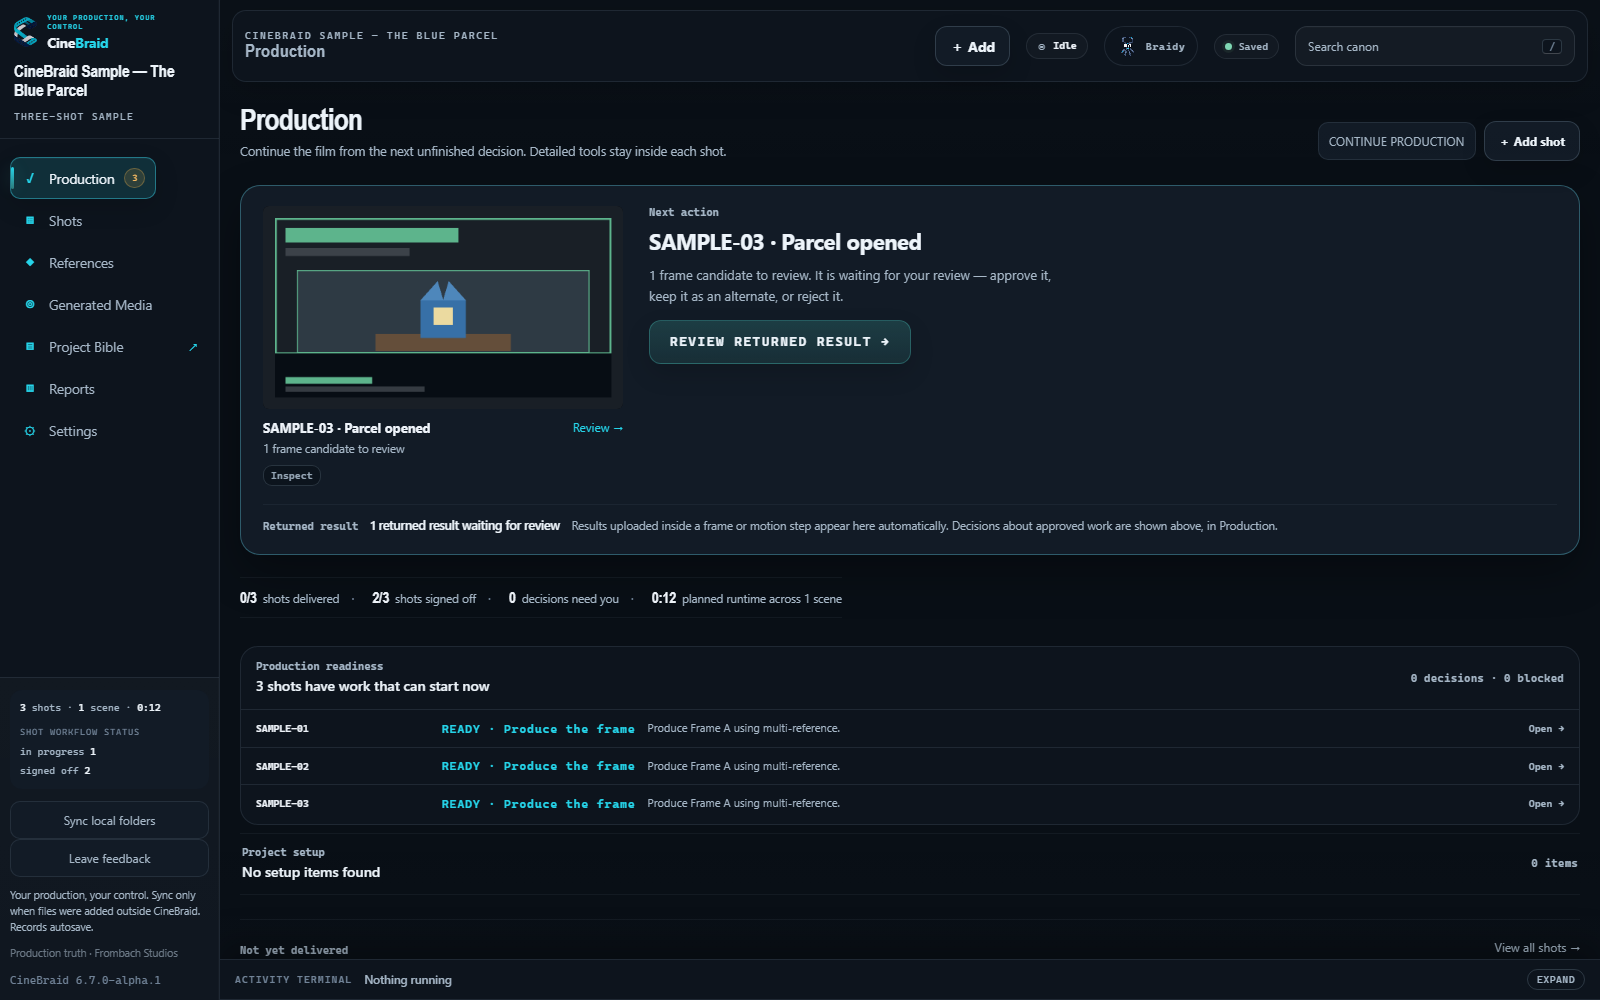
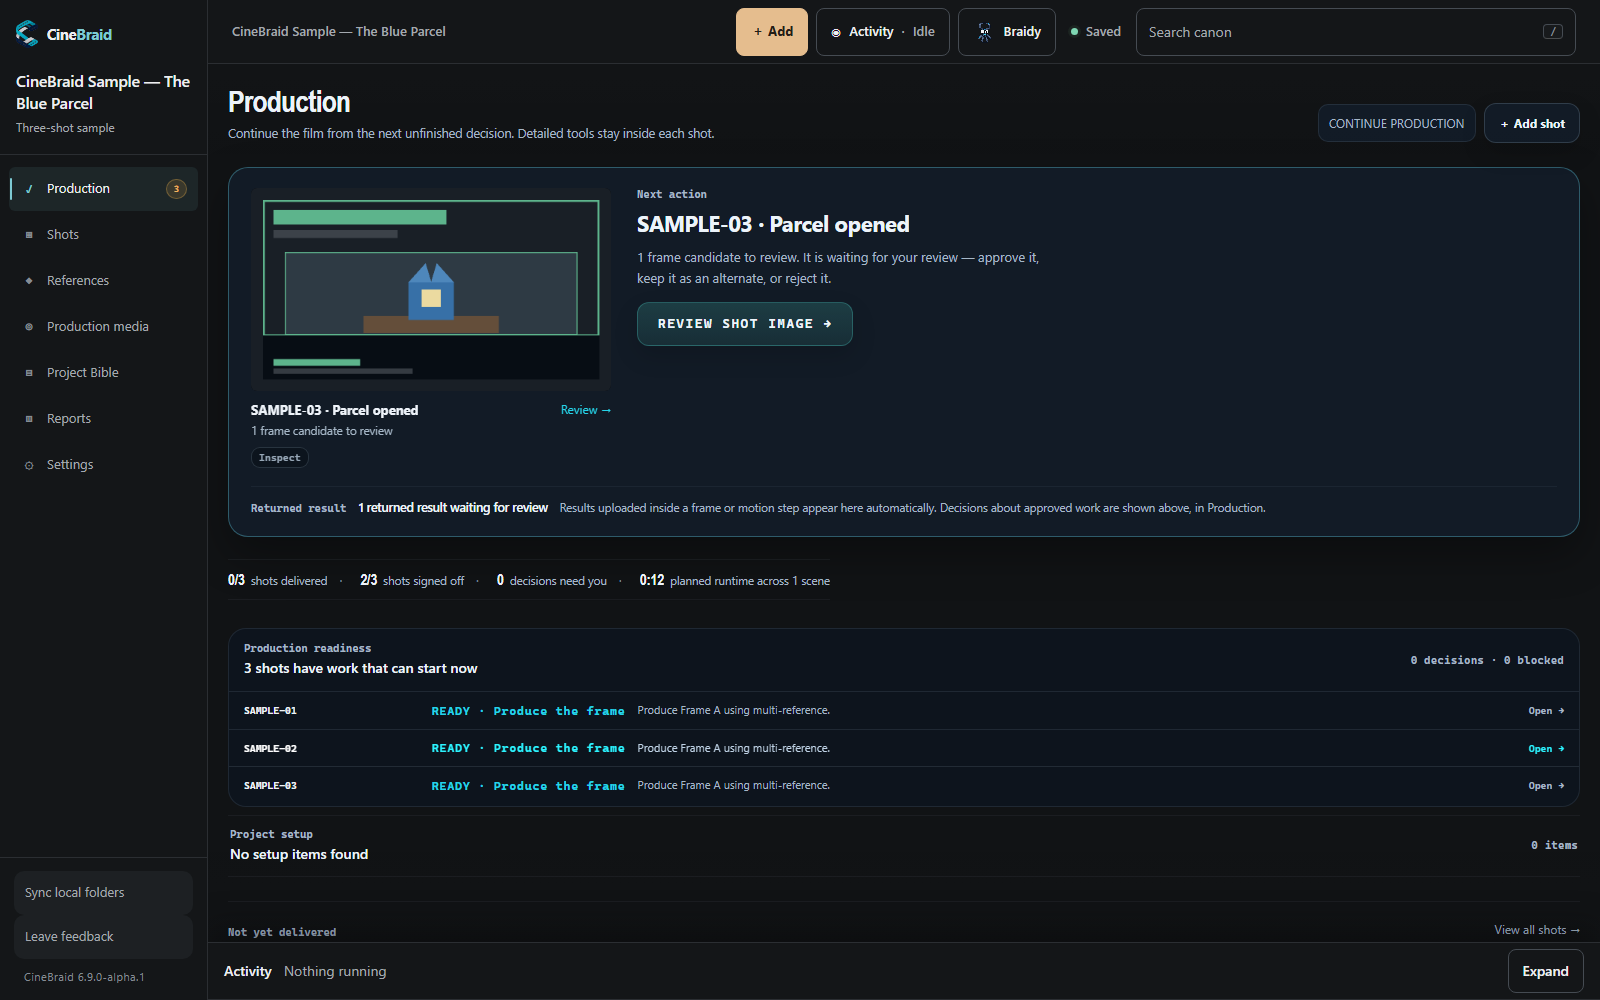
Refresh the README screenshots and social preview for 6.9
The three README screenshots and the social preview showed the 6.7.0-alpha.1
interface. They are replaced with captures of the running 6.9.0-alpha.1 build
at bddf738, taken from a disposable copy of the public sample in one project
state: four real reference approvals through the application's own dialog,
each saved, then navigation only. V1 showed the reference approval dialog
before confirmation, an earlier state than the other two images; V2 shows
the approved reference, so all three agree. The Production view's real
discrepancy - a returned result awaiting review beside "0 decisions need
you" - is kept and documented, as V1's record required.

All four PNGs decode to exactly the captured or rendered pixels, carry only
an sRGB rendering-intent chunk, and are under 116 KB. The social preview
keeps the recorded V1 layout: the native 80x103 ribbon, the full production
capture at 864x540, and the same three lines of text. The shot and reference
alt text, and the reference caption, now describe what their images show.
.github/assets/README.md records the V2 provenance as product-owner approved;
GitHub keeps serving V1 until the owner uploads V2 in the settings.

The v6.8.0-alpha.1 release notes, source update guide and release-folder
README still said no 6.8 tag or GitHub release had been published. It was
published on 2026-09-15 as a source-only pre-release tagged at d5342b9, with
no uploaded archive or installer, and the three documents now say so. The
[…]

diff --git a/.github/assets/README.md b/.github/assets/README.md
@@ -2,82 +2,83 @@
 
 This directory holds durable guidance for public repository presentation. Runtime
 artwork stays in `public/`. Three product screenshots are approved for README publication as recorded below.
-Project Bible is held. The social preview below is active in the repository settings.
+Project Bible is held. The V2 captures and social preview below were approved by the
+product owner on 2026-09-23 and replace the V1 set. GitHub keeps serving the V1
+social preview until the owner uploads V2 in the repository settings.
 
-## GitHub Social Preview V1 — approved
+## GitHub Social Preview V2 — approved
 
-`social-preview.png` is product-owner approved as-is for repository publication. The owner activated it in the repository settings; on 2026-09-22 the image GitHub served was byte-identical to this file (SHA-256 below). Prepared from post-Alpha main `5e8d998f9ebf94f73bba5e59472306eda87b9e54`. Project Bible remains held.
+`social-preview.png` is product-owner approved (2026-09-23). It is rebuilt from the V2
+production capture below, on the recorded V1 layout. Prepared from public main `bddf73834e8ed1df83493db380a5f6eafe6e3860` (6.9.0-alpha.1). GitHub setting
+activation is a manual upload by the owner after approval; V1 (SHA-256
[1 lines of base64/hex data omitted]
+`5e8d998f9ebf94f73bba5e59472306eda87b9e54`) stays active until then.
 
-- Dimensions: **1280 × 640** RGB PNG, sRGB rendering intent declared. Descriptive metadata stripped; the sRGB colour declaration is the only ancillary metadata. Lossless PNG optimization; 112,657 bytes.
[3 lines of base64/hex data omitted]
-- Screenshot treatment: the entire 1600 × 1000 capture displayed proportionally at **864 × 540**. No crop, UI retouching, compositing of UI states, or added browser chrome. One genuine screenshot only.
-- Layout: restrained navy `#09121b`, cyan `#28d1df`, light text. Minimum 48 px outer safe margin; screenshot at (368, 50), ribbon at (48, 50). All content remains inside safe margins.
-- Text: **CineBraid** / **Local-first production software for filmmaking.** / **Public Alpha · Source-only**.
-- Visual review: inspected at 1280 × 640 and 640 × 320. Name and positioning remain readable; the production heading, image and next-action card establish real application context. Fine UI text is not expected to be readable at half size.
-- Public safety and rights: uses only the two approved assets with verified hashes. No private production, credentials, personal paths, QA overlays, generated art or outside imagery introduced. Native branding remains covered by Frombach Studios brand terms; public-sample provenance and Apache-2.0 asset terms are recorded below.
-- Lossless composition original and HTML layout remain outside Git in the isolated review-artifact directory. No GitHub settings changed. Human visual approval is complete; no GitHub setting activation is performed by this publication.
-- Repository-only asset: `.github/` remains export-ignored. The exact `.github/assets/social-preview.png` path is recognized only by the repository-presentation allowance, never by runtime SHIPPED_MEDIA. No product/runtime code changes.
+- Dimensions: **1280 × 640** RGB PNG, sRGB rendering intent declared. Descriptive metadata stripped; the sRGB colour declaration is the only ancillary chunk. Lossless PNG encoding; 101,923 bytes.
[3 lines of base64/hex data omitted]
+- Layout: navy `#09121b`, cyan `#28d1df`, light text, 48 px outer safe margin. Text: **CineBraid** / **Local-first production software for filmmaking.** / **Public Alpha · Source-only**.
+- Rendered by headless Chromium from an HTML layout at 1280 × 640, device scale 1; the layout and unencoded render remain outside Git.
 
-## Accepted README captures — Public Media Capture V1
+## Accepted README captures — Public Media Capture V2
 
-Product-owner visual review approved the following three genuine captures for README publication. Originals remain outside Git, on the maintainer's machine. Source application SHA for every image: `022fe324c725a40b8cd89a6e0283cfd99527e7f6`. Disposable public demo: `cinebraid-sample-public-media-v1`, displayed as **CineBraid Sample — The Blue Parcel**, derived only from tracked `projects/cinebraid-sample`.
+Product-owner visual review (2026-09-23) approved these three genuine captures of the
+running 6.9.0-alpha.1 build at public main `bddf73834e8ed1df83493db380a5f6eafe6e3860`, all
+in **one project state**. Disposable public demo `cinebraid-sample-public-media-v1`,
+displayed as **CineBraid Sample — The Blue Parcel**, copied from the tracked
+`projects/cinebraid-sample` into an isolated projects root with isolated settings,
+loopback only, no provider credentials, and a fresh browser profile. The tracked
+sample remained byte-identical.
 
-All captures are 1600 × 1000 CSS/pixel viewports, DPR 1, zoom 100%, dark theme. No crop, scaling, retouching, compositing or UI-state alteration. Repository PNGs preserve decoded RGB pixels exactly; lossless PNG optimization strips descriptive metadata and retains only an sRGB rendering-intent declaration. All are below 1 MB.
+The state: four real reference approvals, each made through the application's own
+approval dialog once it reported the image ready, and each waited on until saved —
+The courier · Travel coat, Rain platform · Rainy afternoon, Blue parcel · Closed and
+Blue parcel · Opened. After that, navigation only: no shot approval, route choice,
+delivery, generation, import or image edit. The three views were captured in
+sequence after the application's own approval notification had dismissed itself.
 
-Public-safety review: no private productions, credentials, local filesystem paths, browser chrome, QA/debug overlays or private media appear. Capture used isolated projects/configuration/ComfyUI registry roots and fresh browser profiles. All nine sample artwork files remained byte-identical. Runtime normalization and approvals affected only the disposable project; tracked public sample was unchanged.
+All captures are 1600 × 1000 CSS pixels, device scale 1, zoom 100%, dark theme, with
+no crop, scaling, retouching, compositing or UI-state alteration. Published PNGs
+decode to exactly the captured pixels; only an sRGB rendering-intent chunk is added
+and no descriptive metadata is kept. Originals remain outside Git, on the
+maintainer's machine.
 
-Rights/provenance: media came solely from the public sample at the source SHA above; `TRADEMARKS.md` places non-brand tracked assets under the repository Apache-2.0 licence. CineBraid branding remains subject to its separate Frombach Studios terms. These are owner-approved depictions of the genuine application, not generated substitutes.
+Public-safety review: no private production, credential, filesystem path, browser
+chrome, QA/debug overlay or private media. Rights/provenance: sample media only;
+`TRADEMARKS.md` places non-brand tracked assets under the repository Apache-2.0
+licence, and CineBraid branding stays under its separate Frombach Studios terms.
 
 ### `production-overview.png`
 
-- Published path: `screenshots/production-overview.png`.
-- Route: `/#/production`.
[1 lines of base64/hex data omitted]
-- Optimization: 142,861 → 146,750 bytes; pixel-identical.
[1 lines of base64/hex data omitted]
-- Selected entity/shot: SAMPLE-03 — Parcel opened; overview also lists SAMPLE-01 and SAMPLE-02.
-- UI state: One returned frame awaits review; 2/3 shots retain inherited signed-off workflow labels; 0/3 delivered. All four reference states have been confirmed.
-- Disposable changes: Navigation plus four real reference approvals; no shot approval, delivery, generation or image edits. App performed its normal schema/authority normalization on the disposable copy.
-- Captured: 2026-09-10T06:37:46.017642+00:00.
+- Route: `/#/production`. Captured: 2026-09-23T03:01:23.198Z.
[1 lines of base64/hex data omitted]
+- UI state: next action SAMPLE-03 · Parcel opened, one frame candidate to review; one returned result waiting for review; 0/3 shots delivered, 2/3 signed off, 0 decisions need you, 0:12 planned; all three shots READY to produce Frame A.
 - Caption: See the production and the next shot that needs your attention.
 - Alt text: CineBraid production overview showing the Blue Parcel demo's three shots and the next pending shot decision.
-- Visual acceptance caveat: Visible UI says one result awaits review but zero decisions need you. Preserve this discrepancy; do not caption the first two shots as newly approved or delivered.
+- Visual acceptance caveat: the view says a returned result awaits review while "0 decisions need you". This is the application's real state, carried over from V1; do not caption the first two shots as newly approved or delivered.
 
 ### `shot-workspace.png`
 
-- Published path: `screenshots/shot-workspace.png`.
-- Route: `/#/shot/SAMPLE-03`.
[1 lines of base64/hex data omitted]
-- Optimization: 193,725 → 193,537 bytes; pixel-identical.
[1 lines of base64/hex data omitted]
-- Selected entity/shot: SAMPLE-03 — Parcel opened; Frame A, SAMPLE-03-OPEN.png.
-- UI state: Five linked references, zero of one frame approved, returned candidate and real review/use/revise/keep-looking controls. Production note describes the open parcel; production route remains undecided.
-- Disposable changes: Same four reference approvals; opening the shot also triggered the app’s normal shot-folder request. No candidate approved, route selected, media generated or imported.
-- Captured: 2026-09-10T06:37:57.483009+00:00.
+- Route: `/#/shot/SAMPLE-03`. Captured: 2026-09-23T03:01:23.527Z.
[1 lines of base64/hex data omitted]
+- UI state: Parcel opened, SAMPLE-03, 4 seconds, In progress; stages Inputs complete, Frames needs review (0 of 1 approved), Motion & sound and Deliver blocked; generation mode Reference-led; shot intent not declared and production route not decided; returned Frame A result SAMPLE-03-OPEN.png awaiting review; Frame A has one new candidate and no approved image.
 - Caption: Keep each shot connected to its references and chosen frames.
-- Alt text: Parcel opened in CineBraid's Frames workspace, with a selected Frame A candidate awaiting human approval.
-- Visual acceptance caveat: Production route genuinely remains undecided. Lower frame controls extend below the viewport. Do not imply this screenshot proves generation, delivery or completed approval.
+- Alt text: The Parcel opened shot in CineBraid, with its returned Frame A result waiting for a human decision and no image approved yet.
+- Visual acceptance caveat: nothing on this shot is approved; the production route is genuinely undecided. Lower sections extend below the viewport.
 
 ### `reference-review.png`
 
-- Published path: `screenshots/reference-review.png`.
-- Route: `/#/character/CHAR-COURIER`.
[1 lines of base64/hex data omitted]
-- Optimization: 153,494 → 147,075 bytes; pixel-identical.
[1 lines of base64/hex data omitted]
-- Selected entity/shot: CHAR-COURIER — The courier; CHAR-COURIER-FRONT.png; Travel coat.
-- UI state: Approval dialog open before confirmation; selected candidate and primary project-wide state visible, with Approve, Cancel and Request changes controls.
-- Disposable changes: Captured before the first confirmation. Navigation opened the real approval dialog; the four approvals occurred afterward.
-- Captured: 2026-09-10T06:31:52.755780+00:00.
-- Caption: Review a candidate before making an explicit approval.
-- Alt text: CineBraid reference approval view for the courier, showing the selected reference target and explicit human approval controls.
-- Visual acceptance caveat: Earlier point in the same demo timeline than the other three images. Background dimming/blur is the native modal, not retouching. Do not describe this frame as already approved.
+- Route: `/#/character/CHAR-COURIER`. Captured: 2026-09-23T03:01:23.807Z.
[1 lines of base64/hex data omitted]
+- UI state: The courier, continuity state Travel coat, **Approved** · Travel coat; needed now: none; coverage 1 of 2 planned views filled (Front filled, Three-quarter front missing); Approved reference panel.
+- Caption: Keep an explicitly approved reference for each continuity state, and see what coverage remains.
+- Alt text: CineBraid reference page for the courier, showing the explicitly approved Travel coat image and the planned views it still needs.
+- Visual acceptance caveat: unlike V1, which showed the approval dialog before confirmation, V2 shows the reference after the approval, so all three images share one state. Do not describe it as awaiting approval.
 
 ### Held and deferred
 
-`project-bible.png` is **held / not published** by product-owner decision: truthful but visually sparse. No fourth gallery image is included. GitHub Social Preview activation (`CINEBRAID_GITHUB_SOCIAL_PREVIEW_V1`) is complete: the served image matches `social-preview.png` byte for byte. Native 80 × 103 ribbon treatment is unchanged; higher-resolution master provenance remains separate.
+`project-bible.png` is **held / not published** by product-owner decision: truthful but visually sparse. No fourth gallery image is included. Native 80 × 103 ribbon treatment is unchanged; higher-resolution master provenance remains separate. A later capture set from a real production is planned separately.
 
 ## Existing authoritative assets
 

diff --git a/README.md b/README.md
@@ -50,13 +50,13 @@ does not block the manual workflow.
 
 ## See the workflow
 
-![Parcel opened in CineBraid's Frames workspace, with a selected Frame A candidate awaiting human approval.](.github/assets/screenshots/shot-workspace.png)
+![The Parcel opened shot in CineBraid, with its returned Frame A result waiting for a human decision and no image approved yet.](.github/assets/screenshots/shot-workspace.png)
 
 Keep each shot connected to its references and chosen frames.
 
-![CineBraid reference approval view for the courier, showing the selected reference target and explicit human approval controls.](.github/assets/screenshots/reference-review.png)
+![CineBraid reference page for the courier, showing the explicitly approved Travel coat image and the planned views it still needs.](.github/assets/screenshots/reference-review.png)
 
-Review a candidate before making an explicit approval.
+Keep an explicitly approved reference for each continuity state, and see what coverage remains.
 
 ## Start
 

diff --git a/docs/releases/v6.8.0-alpha.1/CINEBRAID_v6.8.0-alpha.1_PATCH_INSTALL.md b/docs/releases/v6.8.0-alpha.1/CINEBRAID_v6.8.0-alpha.1_PATCH_INSTALL.md
@@ -1,10 +1,10 @@
 # CineBraid 6.8.0-alpha.1 — source update guide
 
-This guide updates an existing 6.7 Alpha source installation. Use it after the
-6.8 milestone has been qualified and published to main, checking the exact commit
-against its publication record. The frozen v6.7.0-alpha.1 tag still identifies
-6.7; this guide does not imply that a v6.8 tag, release archive or native installer
-exists. Requires Node.js 18 or newer; the required Windows CI uses Node 24.
+This guide updates an existing 6.7 Alpha source installation to the published
+[v6.8.0-alpha.1](https://github.com/cfbach/cinebraid/releases/tag/v6.8.0-alpha.1) source pre-release, whose tag names
+`d5342b98c3d9f7a824c74ca48a483a1702f183c8`. The frozen v6.7.0-alpha.1 tag still
+identifies 6.7. There is no v6.8 release archive or native installer. Requires
+Node.js 18 or newer; the required Windows CI uses Node 24.
 
 ## 1. Stop and preserve your production
 

diff --git a/docs/releases/v6.8.0-alpha.1/CINEBRAID_v6.8.0-alpha.1_RELEASE_NOTES.md b/docs/releases/v6.8.0-alpha.1/CINEBRAID_v6.8.0-alpha.1_RELEASE_NOTES.md
@@ -5,8 +5,10 @@ References milestone. These notes describe the changes since the immutable
 [v6.7.0-alpha.1 release](https://github.com/cfbach/cinebraid/releases/tag/v6.7.0-alpha.1),
 including storage improvements published on main after that release.
 
-This candidate's version is not a claim that a 6.8 tag, GitHub release or installer
-has been published. Publication and final qualification are recorded separately.
+Published on 2026-09-15 as the source-only GitHub pre-release
+[v6.8.0-alpha.1](https://github.com/cfbach/cinebraid/releases/tag/v6.8.0-alpha.1); the tag names `d5342b98c3d9f7a824c74ca48a483a1702f183c8`.
+No release archive was uploaded and there is no native installer: GitHub's generated
+source downloads are source archives, not installers.
 See the [verification basis](CINEBRAID_v6.8.0-alpha.1_VERIFICATION_REPORT.md) and
 [source update guide](CINEBRAID_v6.8.0-alpha.1_PATCH_INSTALL.md).
 

diff --git a/docs/releases/v6.8.0-alpha.1/README.md b/docs/releases/v6.8.0-alpha.1/README.md
@@ -1,6 +1,6 @@
 # CineBraid 6.8.0-alpha.1 — EV2 milestone
 
-Status: active product version; qualification and main publication pending. No v6.8.0-alpha.1 tag or GitHub release is created by this version advancement.
+Status: published on 2026-09-15 as the source-only GitHub pre-release [v6.8.0-alpha.1](https://github.com/cfbach/cinebraid/releases/tag/v6.8.0-alpha.1), tagged at `d5342b9`. It is the latest release; `main` has since moved on to 6.9.0-alpha.1 development code. No release archive or native installer exists.
 
 The combined Experience V2 milestone includes the accepted A+ Shot Desk representative workflow and References with explicit enrollment of existing production media through durable asset identities. Enrollment remains separate from approval. Approval remains a deliberate user action through the existing authority writer.
 
